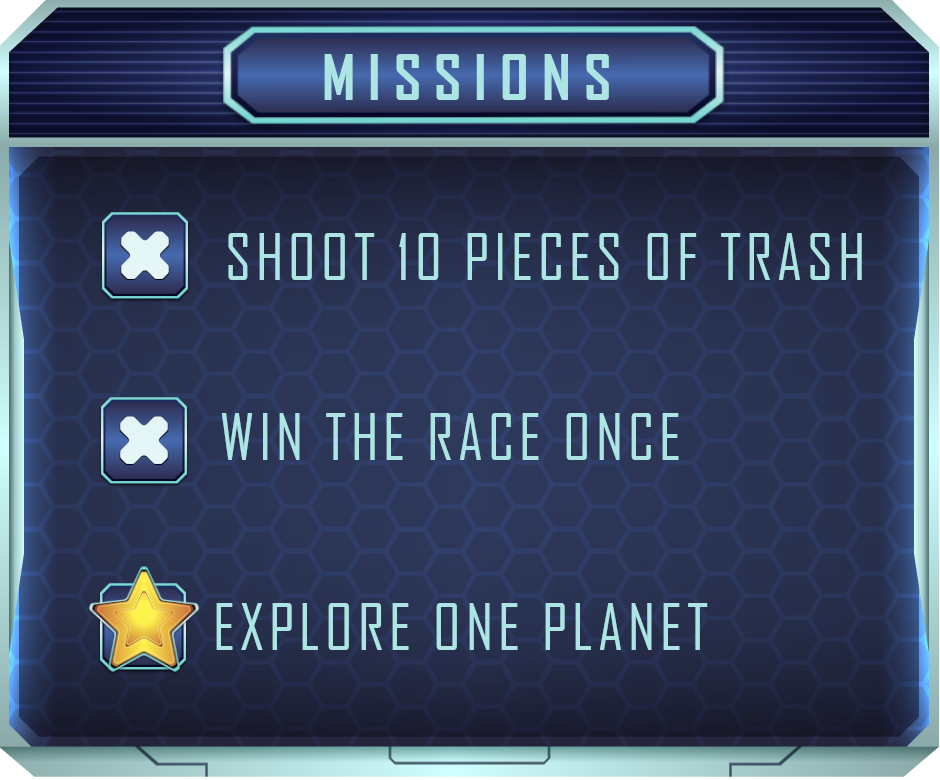
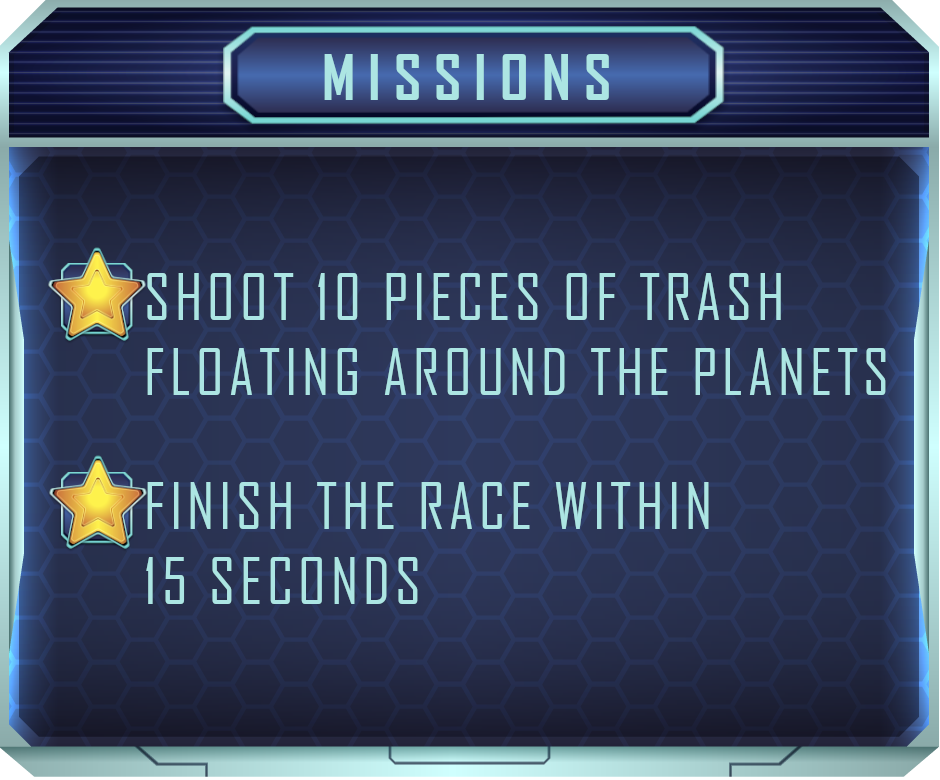
fullscreen i zmiana spritow

Changed region(s): [[0.0309, 0.2462, 0.9564, 0.7077], [0.0926, 0.7077, 0.4628, 0.8615], [0.4628, 0.7692, 0.7713, 0.8308]]

diff --git a/cw 7/src/Render_Sprite.cpp b/cw 7/src/Render_Sprite.cpp
@@ -1,6 +1,7 @@
 #include <iostream>
 #include "Render_Sprite.h"
 #include <ext.hpp>
+#include <GLFW/glfw3.h>
 
 Core::RenderSprite::RenderSprite() {
     this->initSprite();
@@ -11,11 +12,16 @@ Core::RenderSprite::~RenderSprite() {
     glDeleteBuffers(1, &this->VBO);
 }
 
-void Core::RenderSprite::DrawSprite(GLuint program, float width, float height) {
-    glm::mat4 projection = glm::ortho(0.0f, 1000.0f, 1000.0f, 0.0f, -1.0f, 1.0f);
+void Core::RenderSprite::DrawSprite(GLuint program, float spriteWidth, float spriteHeight) {
+    GLFWmonitor* primaryMonitor = glfwGetPrimaryMonitor();
+    const GLFWvidmode* mode = glfwGetVideoMode(primaryMonitor);
+    float screenWidth = mode->width;
+    float screenHeight = mode->height;
+
+    glm::mat4 projection = glm::ortho(0.0f, screenWidth, screenHeight, 0.0f, -1.0f, 1.0f);
     glm::mat4 model = glm::mat4(1.0f);
-    model = glm::translate(model, glm::vec3(500.0f - width / 2.0f, 500.0f - height / 2.0f, 0.0f));
-    model = glm::scale(model, glm::vec3(glm::vec2(width, height), 1.0f));
+    model = glm::translate(model, glm::vec3((screenWidth - spriteWidth) / 2.0f, (screenHeight - spriteHeight) / 2.0f, 0.0f));
+    model = glm::scale(model, glm::vec3(glm::vec2(spriteWidth, spriteHeight), 1.0f));
 
     glUniformMatrix4fv(glGetUniformLocation(program, "projection"), 1, GL_FALSE, (float*)&projection);
     glUniformMatrix4fv(glGetUniformLocation(program, "model"), 1, GL_FALSE, (float*)&model);

diff --git a/cw 7/src/project.hpp b/cw 7/src/project.hpp
@@ -60,6 +60,7 @@ float spotlightPhi = 3.14 / 4;
 
 bool showMissions = false;
 bool hideInstruction = false;
+bool missionsComplete = false;
 
 float aspectRatio = 1.f;
 float exposition = 1.f;
@@ -361,6 +362,10 @@ void renderScene(GLFWwindow* window)
 	if (trashDestroyed == 10)
 	{
 		renderSprite->UpdateSprite(sprites.sprite_2);
+		missionsComplete = true;
+	}
+	if (missionsComplete)
+	{
 		glUseProgram(programSprite);
 		renderSpriteEnd->DrawSprite(programSprite, 740.0f, 580.0f);
 	}
@@ -415,10 +420,6 @@ void initTextures() {
 	sprites.sprite_2 = Core::LoadTexture("./img/mission_board_2.png");
 	sprites.sprite_3 = Core::LoadTexture("./img/mission_board_3.png");
 	sprites.sprite_4 = Core::LoadTexture("./img/mission_board_4.png");
-	sprites.sprite_5 = Core::LoadTexture("./img/mission_board_5.png");
-	sprites.sprite_6 = Core::LoadTexture("./img/mission_board_6.png");
-	sprites.sprite_7 = Core::LoadTexture("./img/mission_board_7.png");
-	sprites.sprite_8 = Core::LoadTexture("./img/mission_board_8.png");
 	sprites.sprite_end = Core::LoadTexture("./img/mission_board_end.png");
 	sprites.sprite_start = Core::LoadTexture("./img/instruction.png");
 

diff --git a/cw 7/src/main.cpp b/cw 7/src/main.cpp
@@ -22,8 +22,10 @@ int main(int argc, char** argv)
 	glfwWindowHint(GLFW_OPENGL_FORWARD_COMPAT, GL_TRUE);
 #endif
 
-	// tworzenie okna za pomoca glfw
-	GLFWwindow* window = glfwCreateWindow(1000, 1000, "Cosmos Game", NULL, NULL);
+	GLFWmonitor* primaryMonitor = glfwGetPrimaryMonitor();
+	const GLFWvidmode* mode = glfwGetVideoMode(primaryMonitor);
+
+	GLFWwindow* window = glfwCreateWindow(mode->width, mode->height, "Cosmos Game", primaryMonitor, NULL);
 	if (window == NULL)
 	{
 		std::cout << "Failed to create GLFW window" << std::endl;
@@ -34,7 +36,7 @@ int main(int argc, char** argv)
 
 	// ladowanie OpenGL za pomoca glew
 	glewInit();
-	glViewport(0, 0, 1000, 1000);
+	glViewport(0, 0, mode->width, mode->height);
 
 	init(window);
 

diff --git a/cw 7/src/Structures.h b/cw 7/src/Structures.h
@@ -73,10 +73,6 @@ struct TextureSprite {
     GLuint sprite_2;
     GLuint sprite_3;
     GLuint sprite_4;
-    GLuint sprite_5;
-    GLuint sprite_6;
-    GLuint sprite_7;
-    GLuint sprite_8;
     GLuint sprite_end;
     GLuint sprite_start;
 };
